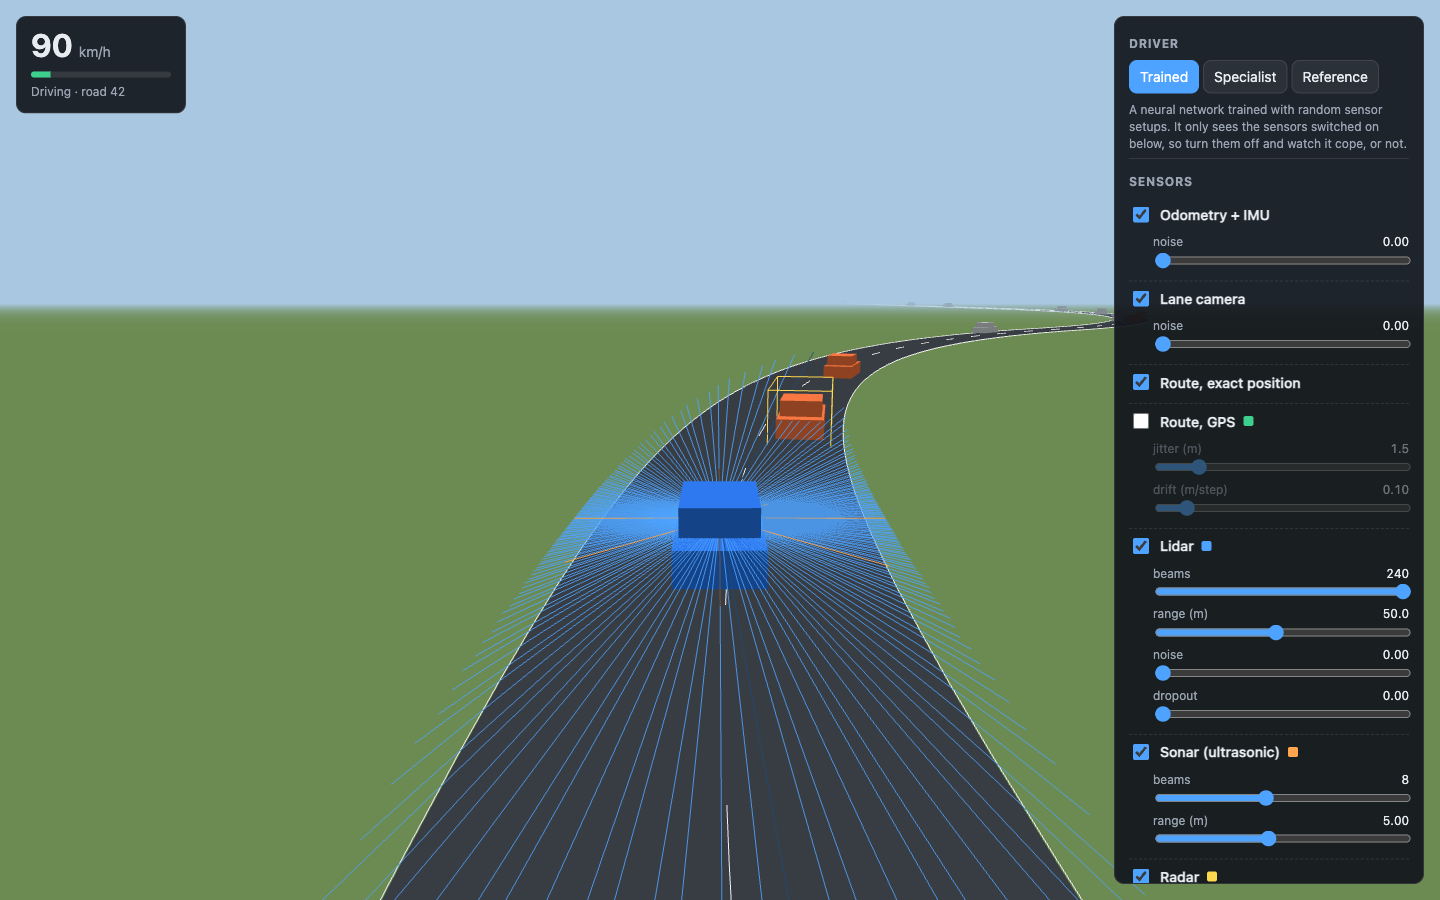
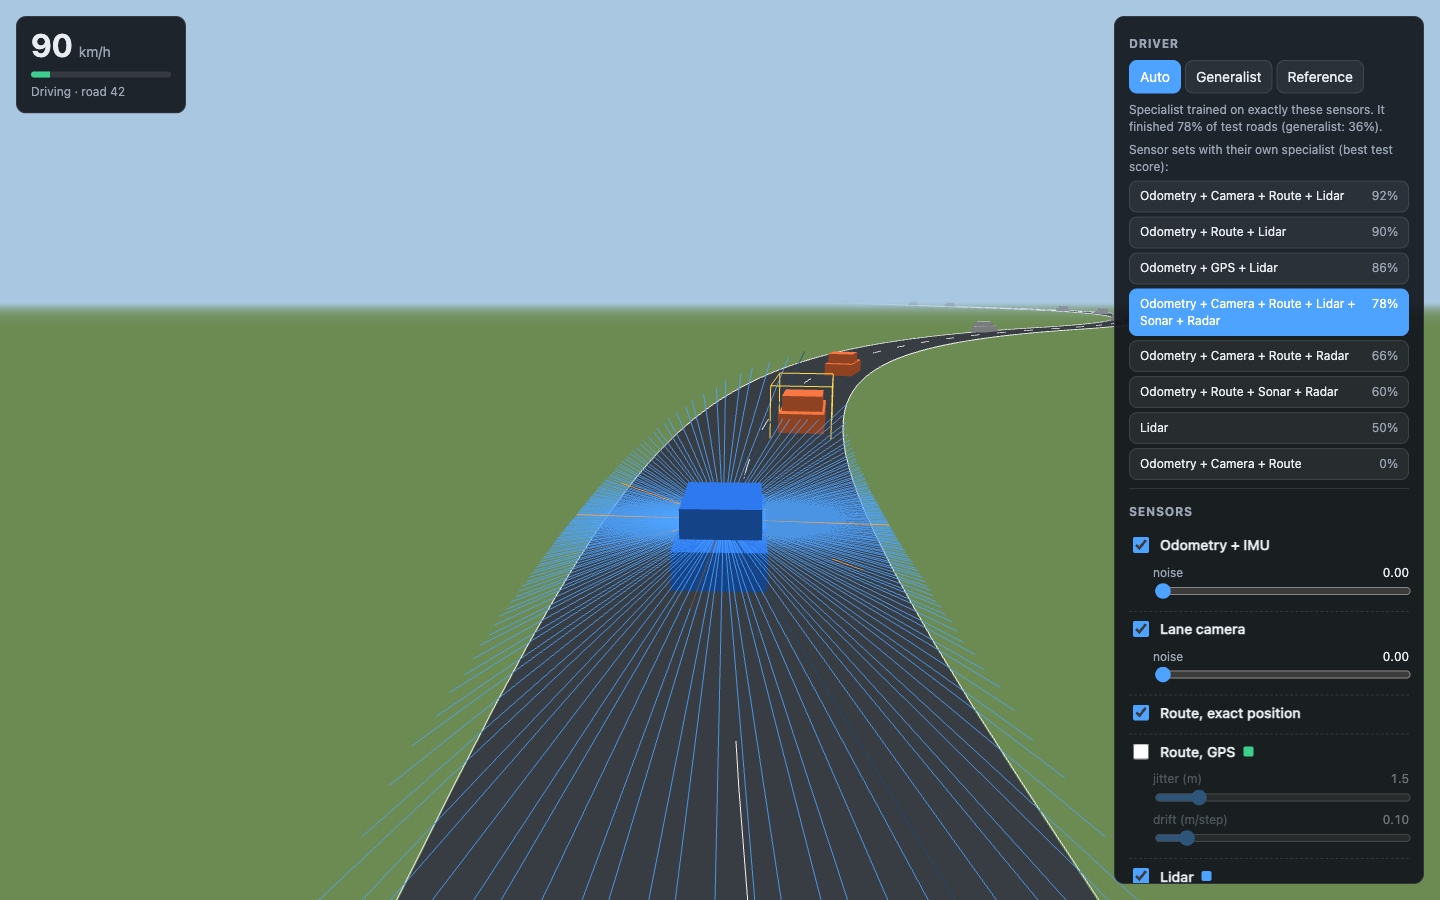
Document the per-set specialists and close Phase 2 on the fallback

Changed region(s): [[0.25, 0.0622, 1.0, 1.0], [0.5625, 0.9333, 0.625, 1.0], [0.625, 0.9333, 0.6562, 0.9644]]

diff --git a/docs/training.md b/docs/training.md
@@ -6,8 +6,8 @@ How the driving policies for the browser simulator are trained, exported and sco
 
 | Model | Sensors during training | Purpose |
 |---|---|---|
-| `specialist` | fixed: odometry, lidar, exact route | baseline, and a check that the setup can be learned at all |
-| `generalist` | random setup every episode | the playground's default driver: one network that copes with whatever you switch on |
+| `specialist-<sensors>` | one fixed sensor set each (8 sets) | best driver for that set; the viewer's Auto mode switches to it |
+| `generalist` | random setup every episode | one network that copes with whatever you switch on; Auto uses it when no specialist does better |
 
 Both are small networks: 253 inputs (the fixed observation layout in [sensors.md](sensors.md#browser-sim-differences)), two hidden layers of 256 with tanh, and 2 outputs (steering, pedal). An exported model is about 0.5 MB.
 
@@ -57,8 +57,8 @@ Runs the exported `.npz`, exactly what the browser runs, on 50 held-out roads pe
 ```bash
 pip install -r requirements.txt -r requirements-train.txt
 
-python -m train.train --name specialist --sensors odom,lidar,nav --steps 3000000      # ~5 min
-python -m train.train --name generalist --random-sensors --steps 15000000            # ~25 min
+python -m train.train --name generalist --random-sensors --steps 15000000   # ~25 min
+python -m train.specialists     # 8 specialists (~5 min each), then benchmark and write the manifest
 
 python -m train.benchmark web/models/generalist.npz --out results/generalist.md
 python -m train.benchmark expert --out results/expert.md
@@ -72,7 +72,7 @@ Scored with `train/benchmark.py`: 50 held-out roads per sensor set, default traf
 
 **Reference driver** (reads the simulator, ignores sensors): 100% success on every set. It's the ceiling.
 
-### Specialist (3M steps, trained on `odom,lidar,nav`)
+### First specialist (3M steps, trained on `odom,lidar,nav`)
 
 | Sensors | Success | Crash | Off road | Route completion |
 |---|---|---|---|---|
@@ -166,15 +166,38 @@ It made a second specialist, not a better generalist:
 
 v2 is excellent on lidar-based sets and brittle everywhere else. Coping with whatever you switch on is the generalist's whole job, so v1 stays as the shipped model. The code is back to the v1 settings (crash −5, full set falling to 20%), so it reproduces the shipped model.
 
+### Specialists per sensor set (the fallback the viewer uses)
+
+`train/specialists.py` trains one specialist per sensor set (3M steps each, about 5 minutes), then benchmarks each one and the generalist on that set. The manifest it writes (`web/models/specialists.json`) names whichever scored higher. The viewer's Auto driver uses that model whenever its sensor set is switched on, and the generalist otherwise.
+
+| Sensor set | Specialist | Generalist | Auto uses |
+|---|---|---|---|
+| `odom,lane,nav,lidar` (default) | 36% | **92%** | generalist |
+| `odom,lidar,nav` | **90%** | 56% | specialist |
+| `odom,lidar,gps` | 0% | **86%** | generalist |
+| everything on | **78%** | 36% | specialist |
+| `odom,lane,nav,radar` (camera + radar) | **66%** | 4% | specialist |
+| `odom,sonar,radar,nav` (no lidar, no camera) | **60%** | 0% | specialist |
+| `lidar` | **50%** | 36% | specialist |
+| `odom,lane,nav` (camera only) | 0% | 0% | specialist (both fail) |
+
+- **Specialists unlock sets the generalist can't drive.** Camera + radar goes from 4% to 66%; sonar + radar + route goes from 0% to 60%. Lidar isn't required after all; the generalist just never learned to drive without it.
+- **Not every specialist run works.** Two scored far below what they reached during training (the `odom,lidar,gps` run finished about half its training episodes, yet crashes every time when driven deterministically). PPO runs vary a lot from seed to seed. Rather than hide that, the manifest keeps both scores and uses the better model.
+- **Camera only can't work in this sim.** The lane camera reports lane position, not other cars, so nothing detects traffic. Both models crash in every run.
+
 ### Phase 2 exit check
 
-| Criterion | Target | Shipped generalist |
+| Criterion | Target | Result |
 |---|---|---|
-| Success with all sensors on | ≥ 80% | **92%** on the default set ✓, 36% with sonar and radar added ✗ |
-| Gap to the specialist on its set | ≤ 10 points | 34 points ✗ (v2 managed 2 points, but at too high a cost elsewhere) |
+| Success with all sensors on | ≥ 80% | generalist: **92%** on the default set ✓. Everything on: 78% (specialist), just short |
+| Gap to the specialist on its set | ≤ 10 points | generalist alone: 34 points ✗ |
+| Fallback (from the exit rule) | ship specialists and switch per sensor set | **done** ✓ |
+
+The generalist alone doesn't meet the bar, so Phase 2 closes on the fallback the exit rule allows: Auto picks the best available model for whatever sensors are on.
 
 ### Takeaways so far
 
-1. A fixed sensor set is easy to learn here: 3M steps, about 5 minutes.
+1. A fixed sensor set is usually easy to learn here: 3M steps, about 5 minutes. But single runs are unreliable; benchmark every model before trusting it.
 2. One network for every sensor setup handles the default set well but degrades as sensors are added or removed. Both training changes tried so far traded robustness for peak performance on lidar sets.
-3. Sonar is the most disruptive sensor to add to a network that hasn't seen it much, probably because at 5 m range it reads road edges constantly, which a lidar-trained network misreads.
+3. With a dedicated network, the car can drive without lidar (camera + radar: 66%; sonar + radar + route: 60%). It can't drive without something that detects other cars.
+4. Sonar is the most disruptive sensor to add to a network that hasn't seen it much, probably because at 5 m range it reads road edges constantly, which a lidar-trained network misreads.

diff --git a/ROADMAP.md b/ROADMAP.md
@@ -32,7 +32,7 @@ Each phase ends with an exit check that has to pass before the next one starts.
 
 Measured with `python -m sim.env` on an Apple Silicon laptop: **2,825 steps/s** with every sensor on, and the lane follower finished **30/30 routes** at each traffic level tested (0, 0.1 and 0.3).
 
-## Phase 2: Training ← exit check not met, in review
+## Phase 2: Training ✓ (via the fallback)
 
 - [x] PPO with 12 parallel envs, reward scaling, KL limit (`train/train.py`)
 - [x] Specialist baseline on `odom,lidar,nav`: **90% success** on held-out roads
@@ -43,20 +43,22 @@ Measured with `python -m sim.env` on an Apple Silicon laptop: **2,825 steps/s** 
 
 **Exit:** the generalist reaches at least 80% success with all sensors on, on held-out maps, and stays within 10 points of the specialist on key sensor sets. If it doesn't, ship a small set of specialist models and switch between them in the UI.
 
-**Status:** partly met. 92% on the default set passes the 80% bar, but adding sonar and radar drops it to 36%, and it's 34 points behind the specialist on its set. Tried and not adopted (details in [docs/training.md](docs/training.md#experiments-that-werent-adopted)):
+**Status:** closed on the fallback. The generalist alone gets 92% on the default set but is 34 points behind the specialist on its set. So 8 specialists were trained, and the viewer's Auto driver uses whichever of specialist or generalist scored higher on the sensors currently on ([results](docs/training.md#specialists-per-sensor-set-the-fallback-the-viewer-uses)). Generalist experiments tried and not adopted ([details](docs/training.md#experiments-that-werent-adopted)):
 
 - [x] Train longer (30M steps): worse almost everywhere
 - [x] Crash penalty −20 and the full set in 50% of late episodes: 88% on the specialist's set, but 8% with everything on and 0% with sonar added. A second specialist, not a better generalist
 
-Still to try, roughly cheapest first:
+- [x] Fallback: 8 specialists (`train/specialists.py`), and the viewer picks the best model per sensor set. Camera + radar: 66%; sonar + radar + route: 60%; everything on: 78%
 
-- [ ] Fallback from the exit rule: train specialists for a handful of sensor sets (~5 min each) and switch model when the sensor set changes
+Still worth trying:
+
+- [ ] Retrain the weak specialists with other seeds (two runs scored far below their training performance)
 - [ ] Curriculum over *which* sensors are on: add sensors one at a time instead of jumping to fully random setups
 - [ ] Only randomise settings, not presence, in part of the episodes
 - [ ] Larger network (3 × 512) for the generalist
 - [ ] Warm-start the generalist from the specialist instead of from scratch
 
-## Phase 3: Browser MVP ← mostly done, waiting on a better generalist and deployment
+## Phase 3: Browser MVP ← mostly done, waiting on deployment
 
 The 3D viewer (`web/`) runs the real `sim/` in the page, driven by a trained network by default.
 
@@ -68,7 +70,7 @@ The 3D viewer (`web/`) runs the real `sim/` in the page, driven by a trained net
 - [x] HUD: speed, route progress, crash/off-road status; next road starts automatically
 - [x] Loading screen (Pyodide is about 10 MB on first visit, cached after that)
 - [x] Mobile layout: controls in a bottom drawer
-- [x] Drive with trained policies from Phase 2 (driver switch), loaded in the browser and run with numpy
+- [x] Drive with trained policies from Phase 2: Auto (best model for the sensors that are on), Generalist, Reference, plus one-click sensor presets
 - [ ] GitHub Pages deploy through Actions
 
 **Exit:** the public URL loads in under 10 s on broadband, runs at 30 fps on a mid-range laptop, and switching any sensor visibly changes how the car drives.

diff --git a/README.md b/README.md
@@ -50,9 +50,11 @@ Pick who drives:
 
 | Driver | What it is |
 |---|---|
-| **Trained** (default) | a neural network trained with random sensor setups. It sees only the sensors you switch on, so turning them off really changes how it drives |
-| **Specialist** | a neural network trained only with odometry, lidar and exact route. Strong on that setup, lost on others |
+| **Auto** (default) | the specialist network trained on exactly the sensors you have switched on. If there isn't one for that combination, the generalist drives instead. One-click presets load each sensor set that has a specialist |
+| **Generalist** | one network trained with random sensor setups. It copes with any combination, some much better than others |
 | **Reference** | a hand-written lane follower that reads the simulator directly. It ignores the sensors; useful to see what "perfect" looks like |
+
+Every network sees only the sensors you switch on, so turning them off really changes how the car drives.
 
 How the networks are trained and how well they score is in [docs/training.md](docs/training.md).
 
@@ -103,20 +105,20 @@ The method, metrics and expected running times are in [research/experiment.md](r
 
 ## Results
 
-Success rate on 50 unseen roads per sensor set (full tables and discussion in [docs/training.md](docs/training.md#results)):
+Success rate on 50 unseen roads, for the model the viewer's Auto driver uses on each sensor set (full tables and discussion in [docs/training.md](docs/training.md#results)):
 
-| Sensors | Specialist (trained on `odom,lidar,nav`) | Generalist (trained on random setups) |
+| Sensors | Success | Model |
 |---|---|---|
-| everything on | 0% | 36% |
-| default set (`odom,lane,nav,lidar`) | 86% | **92%** |
-| `odom,lidar,nav` | **90%** | 56% |
-| `odom,lidar,gps` | 88% | **86%** |
-| `odom,lidar` | 78% | 0% |
-| `lidar` | 42% | 36% |
-| `odom,lane,nav` | 0% (drives off the road) | 0% (stays on the road, hits traffic) |
-| `odom` | 0% | 0% |
+| Odometry + Camera + Route + Lidar (default) | 92% | generalist |
+| Odometry + Route + Lidar | 90% | specialist |
+| Odometry + GPS + Lidar | 86% | generalist |
+| everything on | 78% | specialist |
+| Odometry + Camera + Route + Radar | 66% | specialist |
+| Odometry + Route + Sonar + Radar | 60% | specialist |
+| Lidar only | 50% | specialist |
+| Odometry + Camera + Route | 0% | nothing in this set detects other cars |
 
-So far: lidar is the sensor that matters most on these roads, and a network trained on one sensor set does well on it. The generalist handles the default set well but degrades as sensors are added or removed; [ROADMAP.md](ROADMAP.md) lists what's next. The MetaDrive research track hasn't had its full run yet.
+So far: lidar is the strongest single sensor on these roads, but not essential. With a network trained for them, camera + radar and sonar + radar both drive. What the car can't do without is something that detects other cars. [ROADMAP.md](ROADMAP.md) lists what's next. The MetaDrive research track hasn't had its full run yet.
 
 ## Layout
 

diff --git a/docs/web.md b/docs/web.md
@@ -37,7 +37,7 @@ Implemented now (`web/worker.js`, with the Python side in `web/bridge.py`):
 |---|---|---|
 | page → worker | `reset` | road number, scenario settings |
 | page → worker | `config` | changed sensor toggles and settings (applied on the next step) |
-| page → worker | `driver` | `generalist`, `specialist` (loads `models/<name>.npz`) or `reference` |
+| page → worker | `driver` | a model name (loads `models/<name>.npz`) or `reference` |
 | page → worker | `speed` | 1, 2 or 4× |
 | page → worker | `pause` | true / false |
 | worker → page | `status` | loading progress text |
@@ -58,6 +58,10 @@ Planned for later phases:
 | worker → page | `benchmark` | progress, then the final table |
 
 Frames are sent as JSON strings. At 10 per second and a few kilobytes each, that's cheap enough; switch to typed arrays if it ever shows up in profiles.
+
+## Choosing a model
+
+The page fetches `models/specialists.json`, written by `train/specialists.py`, which lists every specialist with its sensor set and benchmark score. In Auto mode, every sensor toggle recomputes the set of sensors that are on (in the simulator's fixed order, e.g. `odom-nav-lidar`). The page loads `specialist-<set>.npz` if it's listed, and `generalist.npz` if not. A model is only fetched when the choice changes. Settings sliders never switch models; they change what the current model sees.
 
 ## One policy for every sensor setup
 
